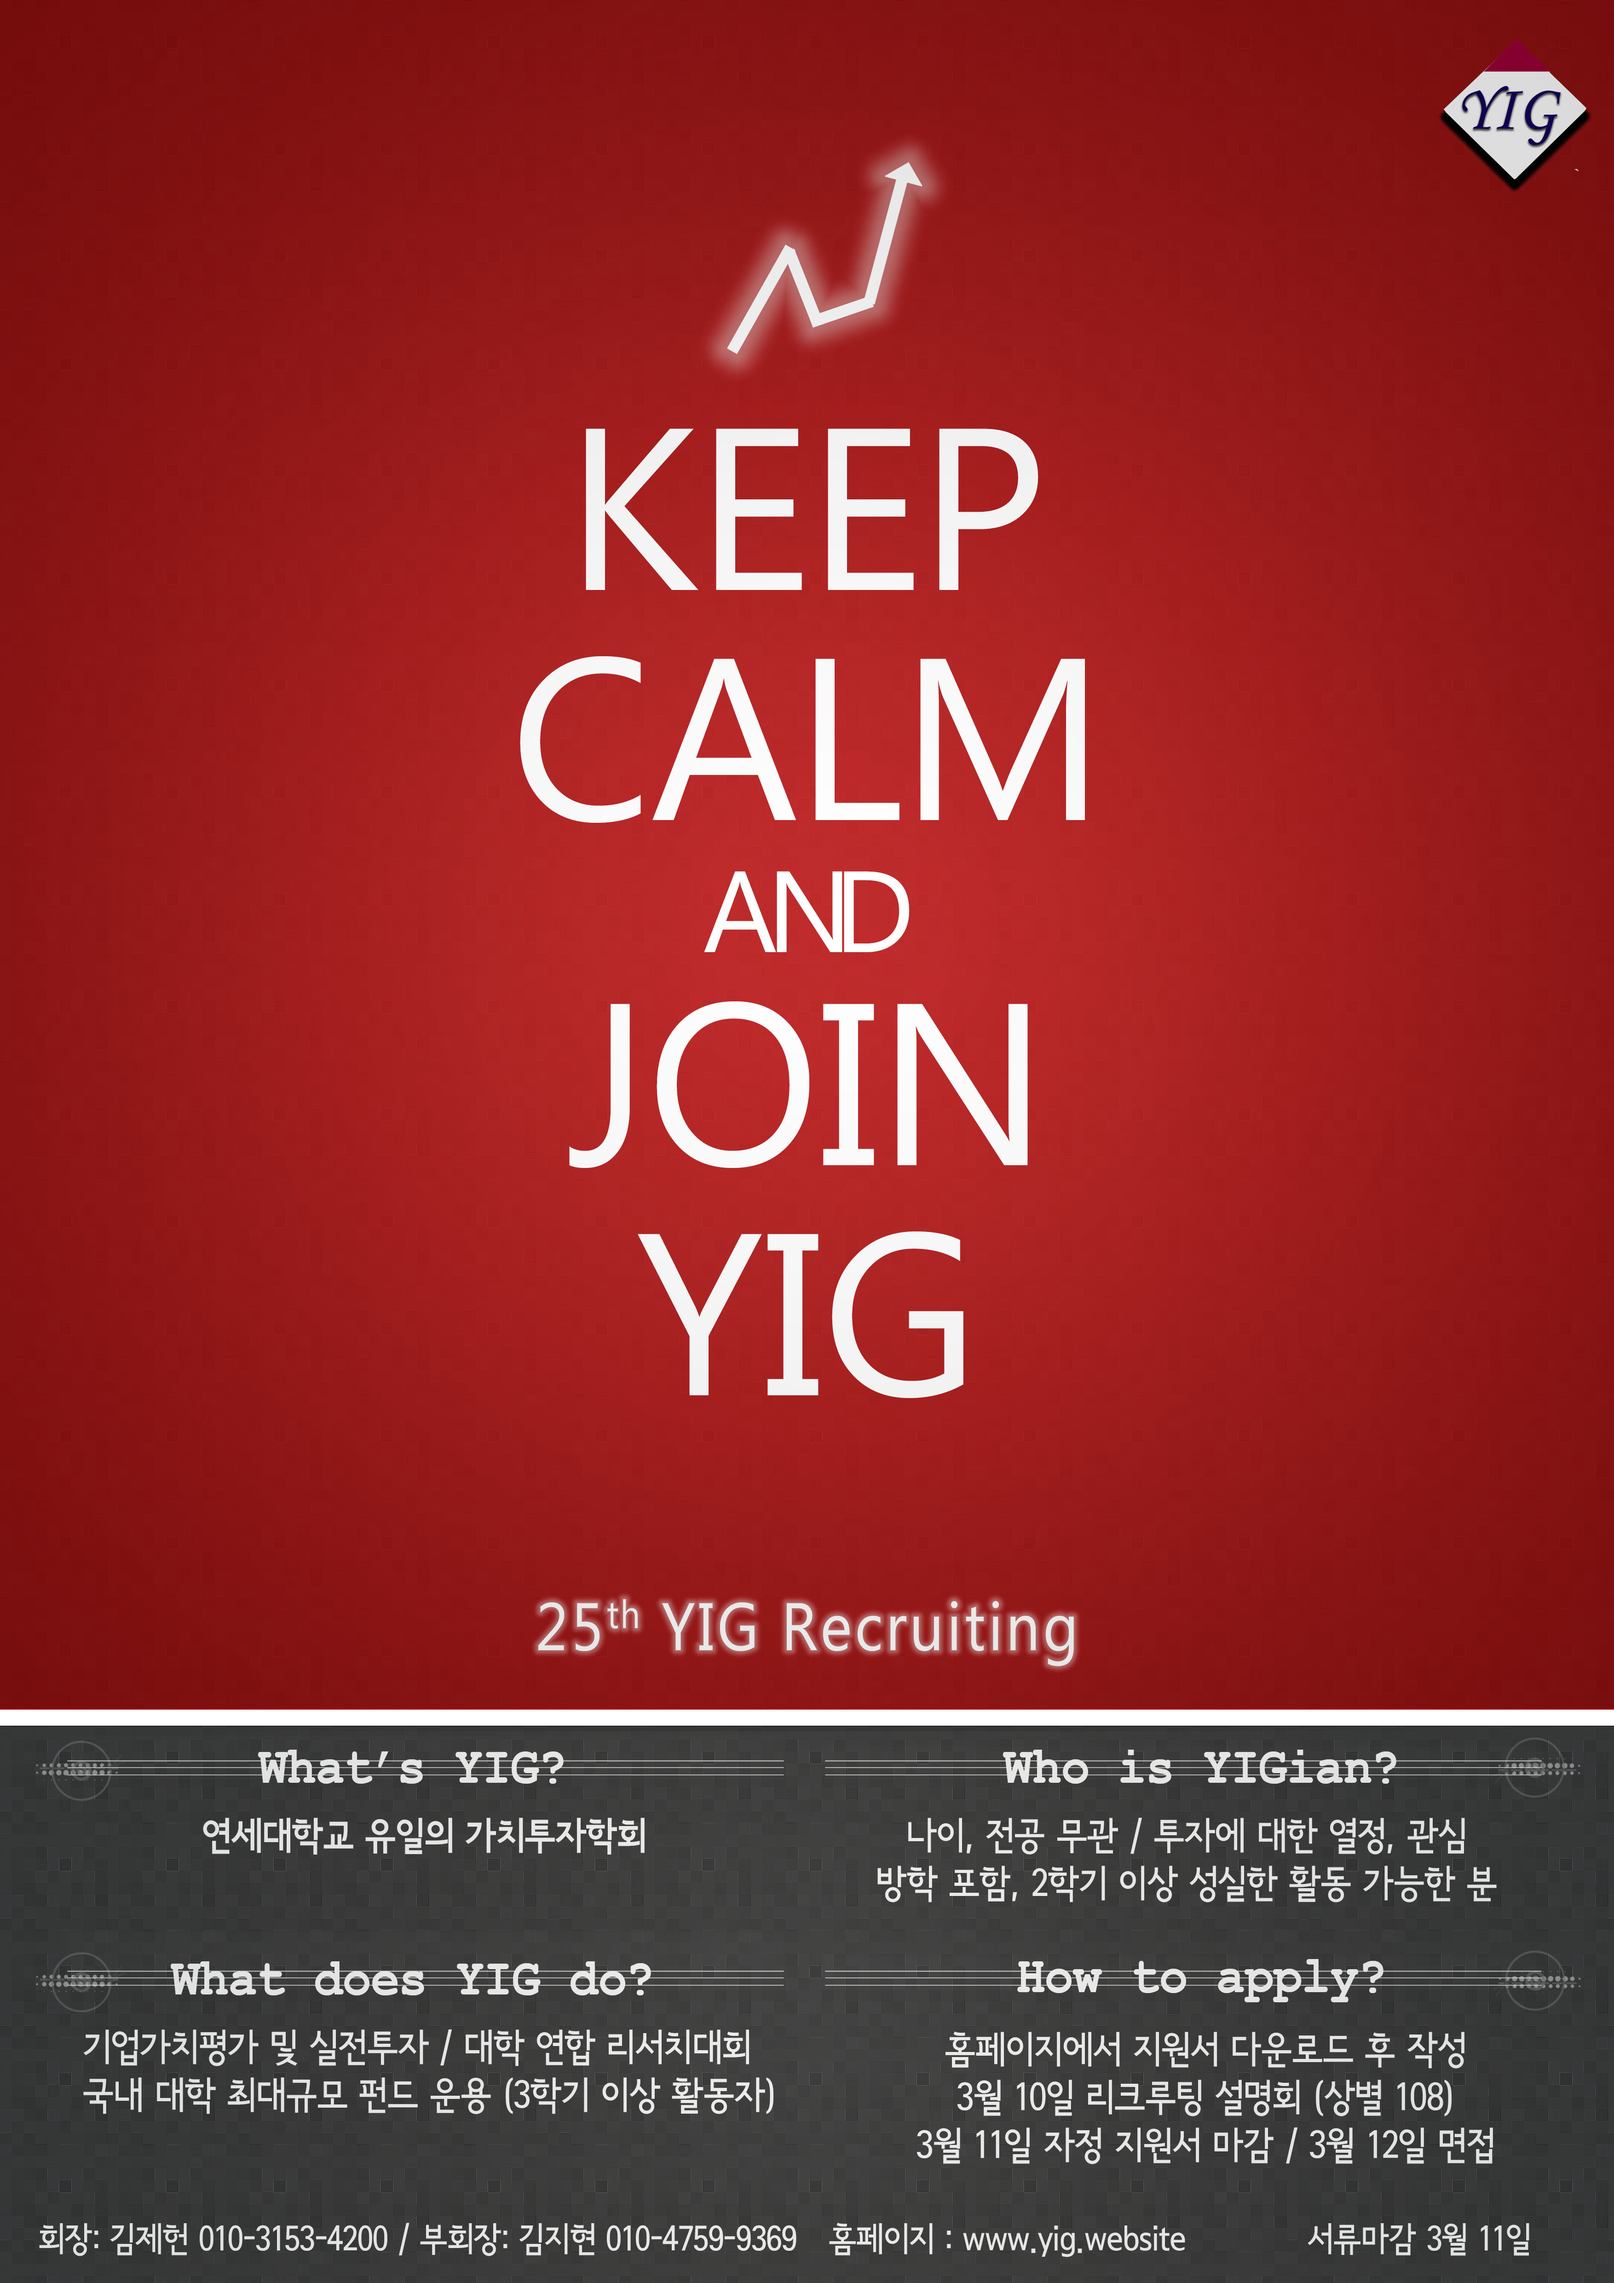
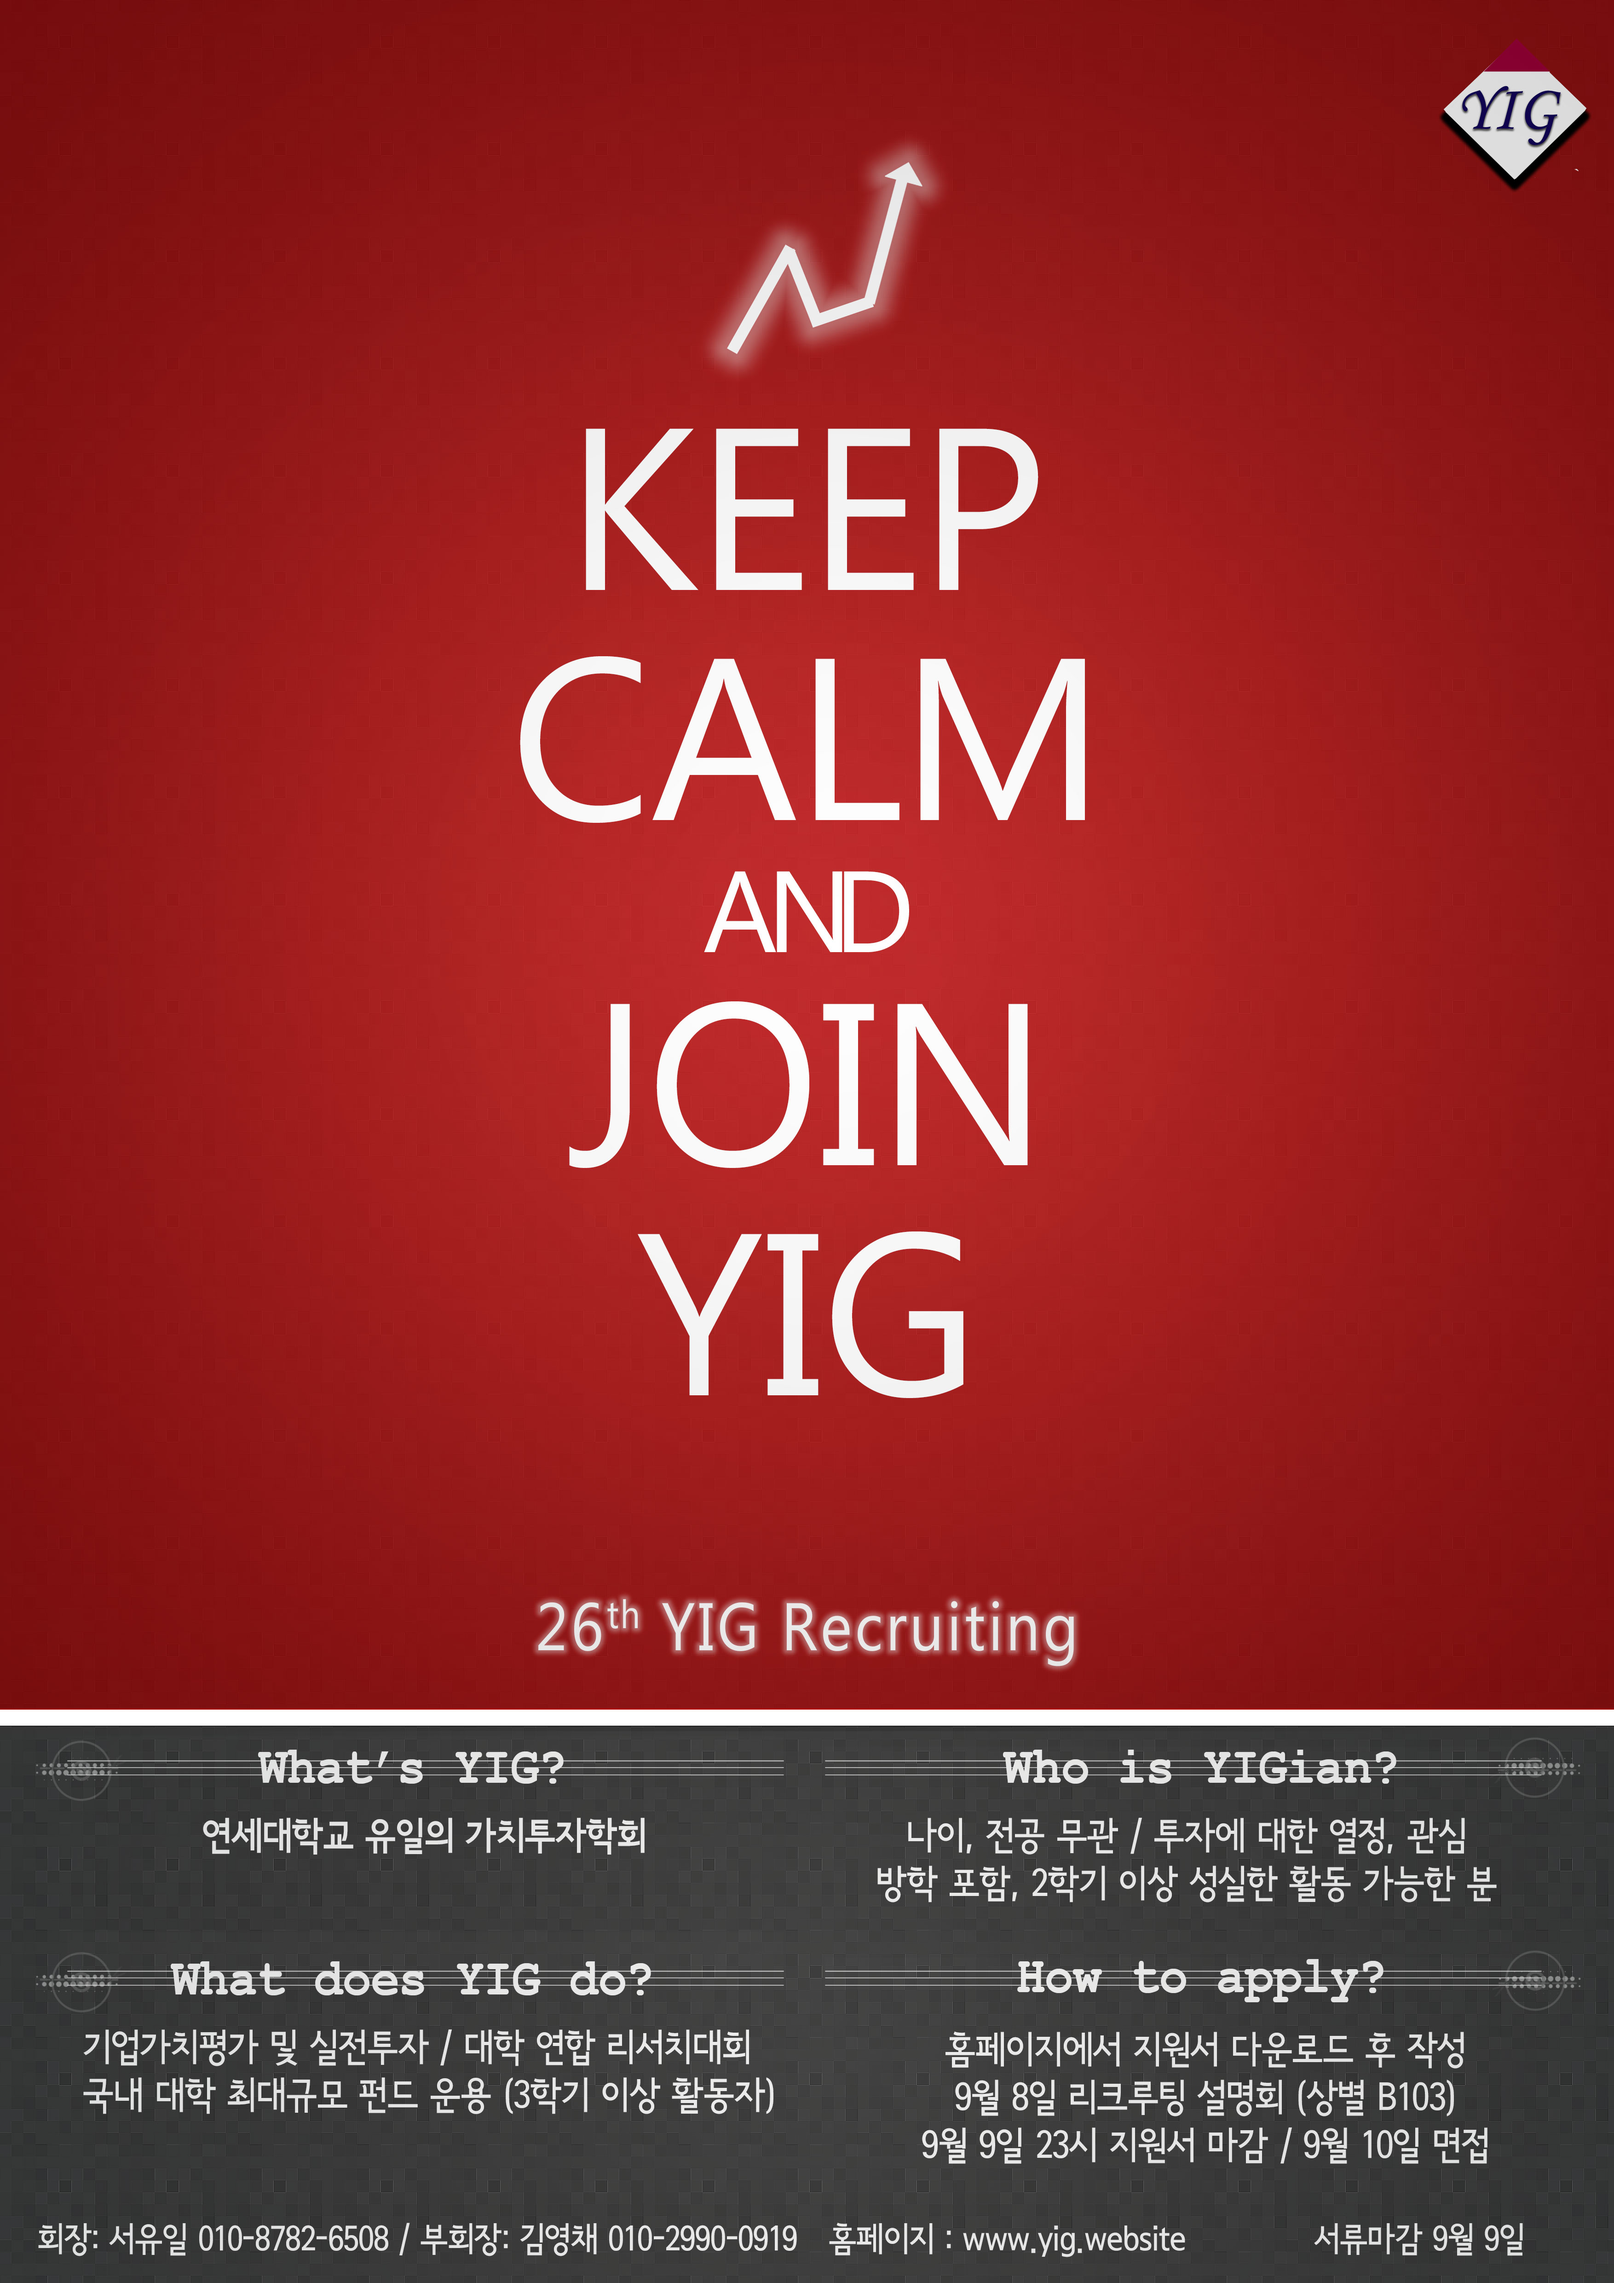
Update for 2015 2nd semester

diff --git a/templates/yighub/public_Introduction.html b/templates/yighub/public_Introduction.html
@@ -19,18 +19,19 @@
 			<br />
 			<strong>회장 전언</strong>
 			<p class="wrap">
-YIG는 실전 투자 학회입니다. YIG는 ‘가치투자’라는 철학 하 기업 가치의 잠재력을 확인합니다. 요지는 미래 수익 창출 능력 및 자산가치 등 기업의 내재가치에 비해 현재 시장 가치(주가)가 저평가되어 있는 기업을 찾아, 선별해 가장 저평가된 기업에 투자하는 것이죠. YIG는 펀드 운용을 통해 주식 투자를 하고 있고, 주식을 통해 ‘금융’이라는 큰 줄기에 항상 접하고 있습니다.
+YIG는 실전 투자 학회입니다. YIG는 ‘가치투자’라는 기준아래서 기업의 내재가치를 평가하고 시장이 제대로 평가하고 있지 못하는 종목을 찾아내어 실제 투자로 연결하고자 합니다. 이론적인 내용만을 공부하는 것을 넘어 학회 내에 있는 펀드를 통하여 실제 투자를 경험하고, 시장이 놓치고 있는 기업의 내재가치를 분석하여 투자한다는 점에서 여타의 투자학회들과는 차이를 가지고 있습니다. 이러한 YIG의 특징은 기업가치를 분석하는 애널리스트의 활동과 투자자의 자금을 운용하는 펀드 매니저의 활동을 포함하는 것으로, 금융의 큰 축을 이루는 부분과 밀접하게 연관되어 있습니다.
 
-기업은 의외로 사람과 비슷합니다. 사람은 실재하는 존재이며 그 가치가 쉽게 변하지 않습니다. 재미있는 점은 그 가치에 대한 평가는 달라질 수 있다는 것이죠. 기업도 마찬가지입니다. 기업 역시 사람처럼 실재하는 존재이며 각 기업은 고유하고 쉽게 변하지 않는 가치를 지니고 있습니다. 또한 그 기업의 평가인 주가는 변동합니다. 하루에도 상한가 하한가를 맞으며 급변하기도 하지요. 이러한 가치와 가격이 괴리되는 상황은 가치투자자인 우리에게 기회입니다. 기업의 가치는 하루아침에 바뀌는 것이 아닌데, 그에 대한 평가는 엇갈립니다. 하지만 중장기적인 관점에서 시장은 대체로 합리적이기에 그 평가는 가치에 수렴하기 때문입니다. (물론, 시장은 강하고 매정합니다.) 우리는 이 점을 이용해 우리는 기업의 가치를 분석하고 그 가치에 비해 저평가된 기업의 주식을 매수하여 수익을 실현합니다. 
+투자는 다양한 변수들이 수익률이라는 하나의 답을 도출하는 복잡한 함수와 같습니다. 기업에 대한 이슈나 해당 산업의 변화, 글로벌 거시지표의 변화 등에 따라 기업의 주가는 시시각각 변화합니다. 그러나, 매 시각 변화하는 주가와 함께 기업의 내재가치 역시 변화하는 것은 아닙니다. 단기의 주가는 우리가 쉽게 풀 수 없는 고차 함수이지만, 장기간의 주가 변화는 기업 내재가치의 1차 함수 입니다. 이렇게 YIG는 기업가치에 대한 분석을 통해 저평가된 주식의 매수를 통해 시장을 이기는 투자를 실현하고자 합니다.   
 
-중요한 것은 그 가치와 평가를 분석하는 능력과 기다릴 줄 아는 냉정한 인내심이겠지요.
+미국의 밴드 One Republic이 부른 Counting Stars라는 노래 속에 이런 가사가 있습니다. Said no more counting dollars, We’ll be counting stars. 그러나, 가치투자를 지향하는 YIG는 이렇게 표현할 수 있을 것이라 생각합니다.  
 
-논리적인 사고와 깊은 통찰력으로 날카로운 분석하며 그 속에 흔들리지 않는 뚝심을 가진 분들과  
-함께합니다.
+Said we do counting dollars, but We’ll be counting stars.
 
-Keep Calm & Join YIG
+투자를 하는 우리는 더 큰 수익을 추구하지만, 그 속에서 자신만의 투자관과 전설이 된 투자자들을 보며 꿈꾸던 로망이라는 별을 잃지 않아야 한다고 생각합니다. 돈과 별을 함께 셀 수 있는 여러분의 많은 지원 바랍니다.
+
+ Keep Calm & Join YIG 
 			</p>
-			<p class="text-right">회장 김제헌 올림.</p>
+			<p class="text-right">회장 서유일 올림</p>
 			<br />
 			<br />
 			<strong>YIG 소개</strong>

diff --git a/templates/yighub/public_Apply.html b/templates/yighub/public_Apply.html
@@ -20,15 +20,14 @@
 			<span class="label label-info">1</span>
 			<strong>설명회 및 스터디 참여</strong>
 			<p class="wrap">
-설명회는 2015년 3월 10일 화요일에 진행됩니다.
+설명회는 2015년 9월 8일 화요일에 진행됩니다. 
 
 설명회는 학회 소개 및 활동 내역, 현업에 종사 중인 선배회원의 강의로 구성됩니다.
-
 			</p>
 			<span class="label label-info">2</span>
 			<strong>지원서 제출</strong>
 			<p class="wrap">
-이메일 접수 : 지원서(<a href="{% url 'yighub:download' 6495 'YIG 입회 지원서.doc' %}">Download</a>)를 다운 받아 2015YIG@gmail.com으로 제출 (3월 11일 자정 마감)
+이메일 접수 : 지원서(<a href="{% url 'yighub:download' 6495 'YIG 입회 지원서.doc' %}">Download</a>)를 다운 받아 2015YIG@gmail.com으로 제출 (9월 9일 23:00 마감) 
 
 투자기업 선정 보고서에 일정한 양식은 없습니다. 해당 기업에 대한 투자 이유, 참신한 아이디어와 논리성 위주로 작성해주세요.
 
@@ -36,9 +35,9 @@
 			<span class="label label-info">3</span>
 			<strong>면접 참가</strong>
 			<p class="wrap">
-면접 일정은 지원서 합격자에 한하여 개별적으로 공지됩니다. (2015년 3월 11일 목요일, 합격자 발표 및 면접)
+면접 일정은 지원서 합격자에 한하여 개별적으로 공지됩니다. (2015년 9월 10일 목요일, 합격자 발표 및 면접) 
 
-지원서에 희망 면접 시간을 기재하시면 최대한 반영하도록 하겠으나 약간의 차이가 있을 수도 있습니다.
+지원서에 희망 면접 시간을 기재하시면 최대한 반영하도록 하겠으나 약간의 차이가 있을 수도 있습니다. 
 
 면접은 개별 면접으로 학술 & 인성으로 나뉘어 진행될 예정이며, 지원자 상황에 따라 면접 일자가 차이가 날 수 있습니다.
 

diff --git a/templates/yighub/public_Contact Us.html b/templates/yighub/public_Contact Us.html
@@ -18,52 +18,41 @@
 			<br />
 			<br />
 			<img src="/static/yighub/images/contacts.png" style="height:30%; width:100%;" />
-<!-- 
-			<div class="well">
+
+			<!-- <div class="well">
 				<strong class="text-info">회 장</strong>
-				<strong>김제헌</strong>
+				<strong>서유일</strong>
 				<br />
 				<span class="text-info">- phone</span>
-				<span>010-3153-4200</span>
+				<span>010-8782-6508</span>
 				<br />
 				<span class="text-info">- e-mail</span>
-				<span>rlawpgsj@naver.com</span>
+				<span>950206soo@naver.com</span>
 				<br />
 				<br />
 
 				<strong class="text-info">부회장</strong>
-				<strong>김지현</strong>
+				<strong>김영채</strong>
 				<br />
 				<span class="text-info">- phone</span>
-				<span>010-4759-9369</span>
+				<span>010-2990-0919</span>
 				<br />
 				<span class="text-info">- e-mail</span>
-				<span>ryu02065@nate.com</span>
-				<br />
-				<br />
-				
-				<strong class="text-info">부회장</strong>
-				<strong>정혜진</strong>
-				<br />
-				<span class="text-info">- phone</span>
-				<span>010-3336-2538</span>
-				<br />
-				<span class="text-info">- e-mail</span>
-				<span>jhjin1993@naver.com</span>
+				<span>khatsal77@gmail.com</span>
 				<br />
 				<br />
 				
 				<strong class="text-info">HR 매니저</strong>
-				<strong>남덕호</strong>
+				<strong>심준우</strong>
 				<br />
 				<span class="text-info">- phone</span>
-				<span>010-7942-1723</span>
+				<span>010-2224-3312</span>
 				<br />
 				<span class="text-info">- e-mail</span>
-				<span>denebola23@gmail.com</span>
+				<span>joonw0713@gmail.com</span>
 				<br />
-			</div>
- -->
+			</div> -->
+
 			<br />
 			<br />
 		</div>

diff --git a/templates/yighub/public_Recruiting.html b/templates/yighub/public_Recruiting.html
@@ -22,20 +22,20 @@
 			<br />
 			<br />
 			<p class="text-info text-center wrap">
-Beating the Market 이기는 투자 YIG
-Keep Calm and Join YIG
-YIG는 2015년 1학기 25기 회원을 모집합니다.
+Beating the Market 시장을 이기는 투자 YIG  
+Keep Calm and Join YIG 
+YIG는 2015년 2학기 26기 회원을 모집합니다.
 			</p>
 			<p class="wrap">
 기존 증권투자동아리가 경영 및 경제 관련 전공의 학생들만이 주로 활동하는 것과 달리 YIG는 공학, 법학, 정치학, 문학, 사회학 등 다양한 분야의 학생들이 모여 더욱 새롭고 다양한 시각으로 기업을 분석하여 높은 시너지 효과를 얻고 있습니다. 
 			</p>
 			<strong>지원 자격</strong>
 			<p class="wrap">
-- 연세대학교 재학 중이며 방학 포함 연속 2학기 이상 활동이 가능하신 분 
+- 연세대학교 재학 중이며 방학 포함 연속 2학기 이상 활동이 가능하신 분  
 - 투자, 금융 재무에 관심이 많으신 분 
-- 금융, 재무 전문가의 꿈을 가지신 분 
-- 주인정신으로 주어진 미션을 책임지고 완성할 수 있는 열정이 있으신 분
-- 재무, 회계 금융 자격증 보유자 우대
+- 금융, 재무 전문가의 꿈을 가지신 분  
+- 주인정신으로 주어진 미션을 책임지고 완성할 수 있는 열정이 있으신 분  
+- 재무, 회계 금융 자격증 보유자 우대 
 
 YIG는 기본적으로 
 1. 창의적인 투자 아이디어 

diff --git a/templates/yighub/public_Schedule.html b/templates/yighub/public_Schedule.html
@@ -30,22 +30,22 @@
 				</thead>
 				<tbody>
 					<tr>
-						<td>3월 2일(월) ~ 11일(수)</td>
+						<td>9월 1일(화)  ~ 9일(수)</td>
 						<td>지원서 제출 및 마감</td>
-						<td>3월 11일(수) 23:00 마감</td>
+						<td>9월 9일(화) 23:00 마감</td>
 					</tr>
 					<tr>
-						<td>3월 10일(화) 7:00 PM</td>
+						<td>9월 8일(화)  7:00 PM</td>
 						<td>YIG 신입회원 Recruiting 설명회<br />(현업 종사 선배회원 강의 포함)</td>
-						<td>장소: 대우관 별관 108호</td>
+						<td>장소: 대우관 별관 B103호</td>
 					</tr>
 					<tr>
-						<td>3월 12일 (목) 오전</td>
+						<td>9월 10일 (목) 오전</td>
 						<td>서류합격 발표 및 면접안내</td>
 						<td>개별통보</td>
 					</tr>
 					<tr>
-						<td>3월 12일 (목) 오후</td>
+						<td>9월 10일 (목) 오후</td>
 						<td>지원자 대상 면접</td>
 						<td>
 							<!-- 오전10시 ~ 오후 5시 <br /> -->
@@ -54,12 +54,12 @@
 							※ 상황에 따라 지원자 별 면접일자가 다를 수 있음</td>
 					</tr>
 					<tr>
-						<td>3월 13일 (금)</td>
+						<td>9월 11일 (금)</td>
 						<td>합격자 발표</td>
 						<td>합격자 개별 통보</td>
 					</tr>
 					<tr>
-						<td>3월 14일 (토)</td>
+						<td>9월 12일 (토)</td>
 						<td>첫 세션 및 신입회원 환영회</td>
 						<td></td>
 					</tr>
